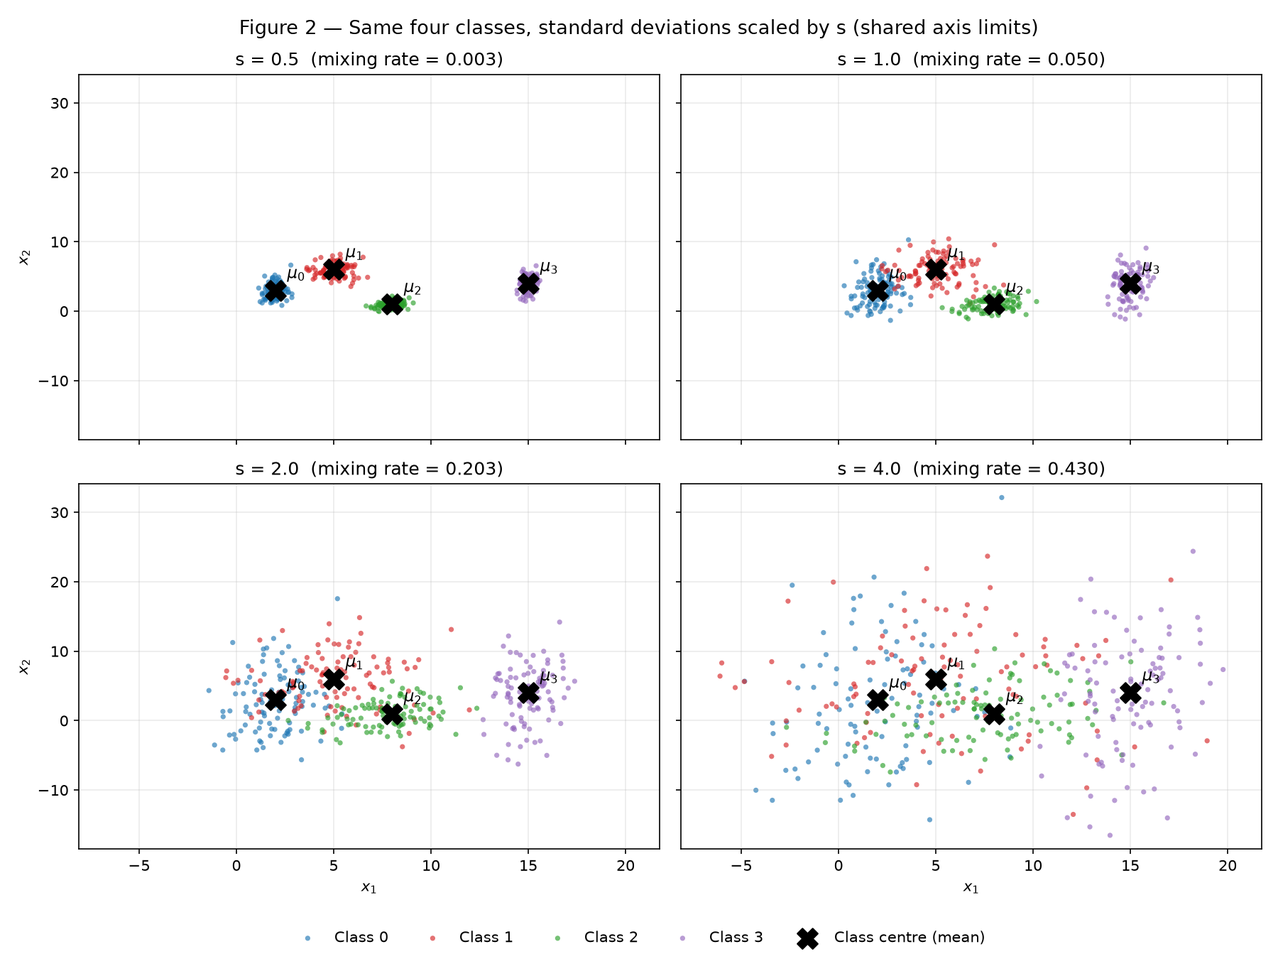
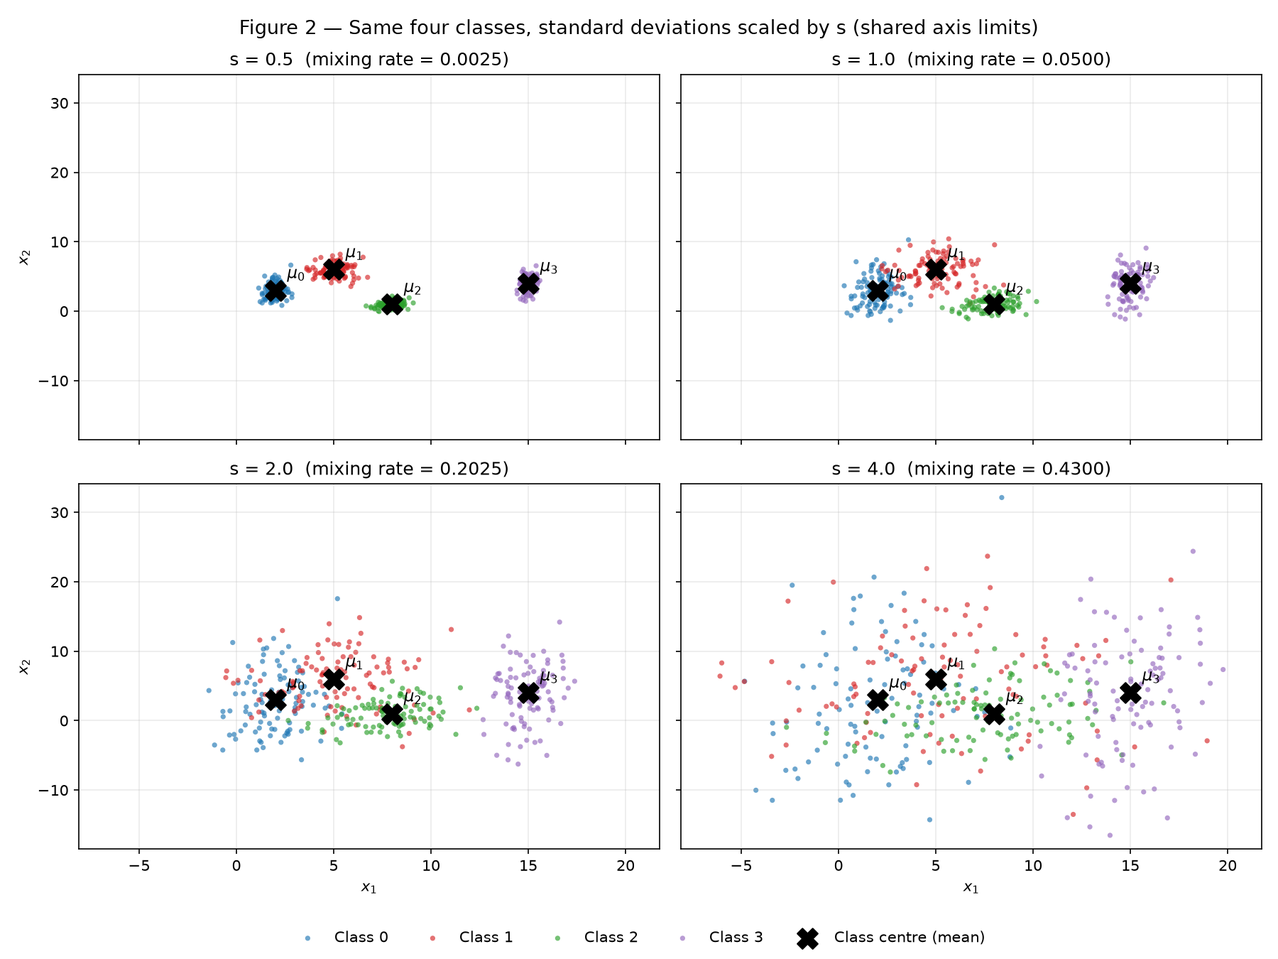
Data: corrige erro de Bayes, teto do hiperplano, leitura da Figura 4 e valores pre-imputacao

diff --git a/docs/exercises/data/code/exercise3_spaceship_titanic.py b/docs/exercises/data/code/exercise3_spaceship_titanic.py
@@ -124,6 +124,13 @@ def preprocess(X_train, X_test):
 
     train = X_train.copy()
     test = X_test.copy()
+
+    # Captured BEFORE imputation. The statement asks for FoodCourt "before transforming",
+    # and imputation is itself the first transformation -- filling 154 missing values with
+    # the median (0) drags the mean down from 452.61 to 442.59 and would quietly report a
+    # post-processing number as the raw one. Missing entries are dropped, not filled.
+    raw_foodcourt_train = X_train["FoodCourt"].dropna()
+
     train[numeric_cols] = numeric_imputer.fit_transform(train[numeric_cols])
     test[numeric_cols] = numeric_imputer.transform(test[numeric_cols])
     train[CATEGORICAL] = categorical_imputer.fit_transform(train[CATEGORICAL])
@@ -147,7 +154,6 @@ def preprocess(X_train, X_test):
     # log(1+x) keeps the zeros at zero and pulls a 20000-credit outlier to ~10, so the
     # spread of the column stops being dictated by a handful of passengers.
     spend_log = SPENDING + ["TotalSpend"]
-    raw_foodcourt_train = train["FoodCourt"].copy()
     train[spend_log] = np.log1p(train[spend_log])
     test[spend_log] = np.log1p(test[spend_log])
     print("\n3. log(1 + x) applied to the spending columns and to TotalSpend")
@@ -178,11 +184,14 @@ def preprocess(X_train, X_test):
     print("   any such category would become an all-zero row, never an error")
 
     # --- 5. Scaling -------------------------------------------------------------
-    # Normalisation to [-1, 1] rather than standardisation: tanh saturates outside
-    # roughly [-2, 2], and standardisation leaves the log-spending columns with values
-    # past |z| = 3, which land in the flat part of the curve where the gradient dies.
-    # Min-max to [-1, 1] puts every training value inside the responsive region by
-    # construction, and centres it on 0, which is where tanh has its steepest slope.
+    # Normalisation to [-1, 1] rather than standardisation. After the log the spending
+    # columns are already tame (max |z| between 2.86 and 3.06), so this is not about
+    # rescuing outliers: standardisation would leave the training matrix spanning
+    # [-2.00, +3.51], with Age reaching |z| = 3.51 and the upper bound depending on
+    # whatever the largest value happens to be. Min-max bounds every training value to
+    # exactly [-1, 1] by construction, which is the range tanh itself outputs -- keeping
+    # the pre-activation Wx+b at a predictable scale at initialisation, which is what
+    # actually decides whether the unit starts in the responsive part of the curve.
     numeric_final = ["Age"] + SPENDING + ["TotalSpend"]
     scaler = MinMaxScaler(feature_range=(-1, 1))
     train_numeric = scaler.fit_transform(train[numeric_final])

diff --git a/docs/exercises/data/code/exercise1_point_clouds.py b/docs/exercises/data/code/exercise1_point_clouds.py
@@ -154,7 +154,7 @@ def figure2(datasets):
     for ax, scale in zip(axes.ravel(), SCALES):
         X, y = datasets[scale]
         scatter_classes(ax, X, y, marker_size=12)
-        ax.set_title(f"s = {scale}  (mixing rate = {mixing_rate(X, y):.3f})")
+        ax.set_title(f"s = {scale}  (mixing rate = {mixing_rate(X, y):.4f})")
         ax.set_xlim(*xlim)
         ax.set_ylim(*ylim)
         ax.grid(alpha=0.25)

diff --git a/docs/exercises/data/index.md b/docs/exercises/data/index.md
@@ -121,9 +121,10 @@ treinar modelo nenhum. Equivale ao erro de um classificador de centroide mais pr
 
 ![Taxa de mistura em função do fator de escala s](figures/fig03-mixing-rate.png)
 /// caption
-**Figura 3** — Taxa de mistura $\times$ fator de escala $s$. A curva é praticamente linear
-entre $s = 0{,}5$ e $s = 4$, mas o dano por unidade de $s$ é maior no começo: dobrar de
-$0{,}5$ para $1$ multiplica o erro por 20.
+**Figura 3** — Taxa de mistura $\times$ fator de escala $s$. Em termos **absolutos** o trecho
+mais íngreme é o do meio (inclinação 0,153 por unidade de $s$ entre 1 e 2, contra 0,095 entre
+0,5 e 1). Em termos **relativos** o começo é que é brutal: dobrar de $0{,}5$ para $1$
+multiplica o erro por 20, enquanto dobrar de 2 para 4 apenas o dobra.
 ///
 
 **De qual fator de escala em diante as nuvens deixam de ser separáveis por retas?**
@@ -137,9 +138,15 @@ só a classe 3 ainda tem identidade espacial, e mesmo ela invade as demais.
 **O que acontece com o menor $r_{ij}$ nesse ponto?** Ele cruza 1: $r_{01}$ cai de $1{,}3258$
 para $\mathbf{0{,}6629}$. Esse limiar tem leitura direta — $r_{ij} < 1$ significa que a
 distância entre os centros ficou **menor** que a soma dos espalhamentos médios das duas
-classes, isto é, as nuvens se interpenetram em vez de apenas se tocarem. É exatamente onde a
-separabilidade linear se perde, e é por isso que $r_{ij} = 1$ funciona como critério e não só
-como número.
+classes, isto é, as nuvens se interpenetram em vez de apenas se tocarem.
+
+Sendo preciso: $r_{01}$ cruza 1 em $s = 1{,}3258$, e a separabilidade linear *estrita* — zero
+erros — já se perde bem antes, por volta de $s \approx 0{,}7$. A degradação é contínua, sem
+nenhum salto em $s = 2$ nem em $s = 1{,}33$. Não existe, portanto, um valor "empírico" a
+descobrir: entre os quatro valores testados, $s = 2$ é o primeiro em que $r_{\min} < 1$, e
+$r_{ij} = 1$ é o critério que o próprio enunciado sugere ao perguntar o que acontece com o
+menor $r_{ij}$ nesse ponto. É um critério com significado geométrico, e não uma inspeção
+visual — que é o que o torna defensável.
 
 ### C — Analysis
 
@@ -157,10 +164,16 @@ Com 4 classes, o melhor que uma reta faz é separar um grupo dos demais.
 
 **Um conjunto de fronteiras lineares?** Sim, quase perfeitamente em $s = 1$. Bastam três
 retas bem colocadas (uma isolando a classe 3 à direita, uma separando a 2 abaixo, e uma entre
-0 e 1) para acertar em torno de 95% dos pontos. É precisamente isso que uma rede rasa faz: a
-fronteira **linear por partes** que emerge da combinação de várias unidades. O resíduo de 5%
-está na zona 0–1, e nenhuma reta o elimina, porque as duas nuvens genuinamente se
-interpenetram ali.
+0 e 1). É precisamente isso que uma rede rasa faz: a fronteira **linear por partes** que
+emerge da combinação de várias unidades.
+
+Vale distinguir dois números que é fácil confundir. A taxa de mistura de 5% é o erro do
+**centroide mais próximo**, não o piso de um classificador linear — retas bem posicionadas
+fazem melhor que a partição de Voronoi, porque podem se deslocar na direção da classe mais
+concentrada. Medido no meu próprio conjunto em $s = 1$, o melhor modelo linear multiclasse
+erra **11 de 400 (2,75%)**, contra os 20 de 400 do centroide. As retas cortam o resíduo
+praticamente pela metade — o que elas não fazem é zerá-lo, porque as nuvens 0 e 1 genuinamente
+se interpenetram ali.
 
 ![Figura 1 com as fronteiras de decisão esboçadas por cima](figures/fig01b-decision-boundaries.png)
 /// caption
@@ -179,10 +192,25 @@ quadrática, e não uma reta — o que a rede aproxima por vários segmentos.
 
 **Relação com o item B.** À medida que $s$ cresce, a região onde a rede **necessariamente**
 erra cresce junto, e essa é a parte que nenhum ajuste de arquitetura resolve. Onde as
-densidades das duas classes se sobrepõem, existe um erro de Bayes irredutível: para um ponto
-naquela região, a classe mais provável simplesmente não é certa. Os números medem isso — o
-piso de erro sai de 0,25% ($s = 0{,}5$) para 43% ($s = 4$) sem que nada além do espalhamento
-tenha mudado. Duas consequências práticas:
+densidades das duas classes se sobrepõem existe um **erro de Bayes** irredutível: para um
+ponto naquela região, a classe mais provável simplesmente não é certa.
+
+Aqui é preciso cuidado com o que a taxa de mistura mede. Ela é o erro de um classificador
+específico — o centroide mais próximo — e portanto um **limite superior** do erro de Bayes,
+nunca o piso. Calculando o erro de Bayes de verdade para estas gaussianas diagonais
+(densidades conhecidas, prioris iguais):
+
+| $s$ | Taxa de mistura (centroide) | Erro de Bayes real |
+|-----|------------------------------|--------------------|
+| 0,5 | 0,0025 | ≈ 0,0003 |
+| 1,0 | 0,0500 | ≈ 0,0301 |
+| 2,0 | 0,2025 | ≈ 0,1581 |
+| 4,0 | 0,4300 | ≈ 0,3331 |
+
+O piso real vai de ~0,03% a ~33% — a mesma história de crescimento, mas a taxa de mistura
+superestima o inevitável, e em $s = 4$ superestima em cerca de 10 pontos percentuais. O que é
+irredutível é a coluna da direita; a diferença entre as duas colunas é exatamente o que uma
+fronteira melhor que Voronoi consegue recuperar. Duas consequências práticas:
 
 1. **Mais capacidade não ajuda.** Em $s = 4$ os centros estão nos mesmos lugares de $s = 0{,}5$;
    o que mudou foi a densidade. Uma rede maior só conseguiria decorar o ruído do conjunto de
@@ -302,9 +330,17 @@ $w^\top \mu_C$ e $w^\top \mu_D$; como $\mu_C \approx \mu_D \approx 0$, as duas p
 **a mesma média**, qualquer que seja $w$. Pior: como as duas classes são esfericamente
 simétricas em torno da origem, a projeção de cada uma sobre qualquer direção é simétrica em
 torno de zero. As duas distribuições projetadas ficam centradas no mesmo ponto, e a casca
-— que é mais larga — cobre o núcleo dos dois lados. Um corte nessa reta sempre deixa metade
-da casca do lado errado; a acurácia de qualquer hiperplano fica em torno de 50%, o mesmo que
-chutar.
+— que é mais larga — cobre o núcleo dos dois lados. Qualquer corte nessa reta erra pelo menos
+metade de uma das duas classes: cortando à direita, perde-se metade da casca; cortando à
+esquerda, perde-se boa parte do núcleo.
+
+Convém dar o número certo aqui, porque o argumento é qualitativo e é tentador exagerá-lo. Os
+estimadores lineares usuais de fato ficam perto do acaso — regressão logística e LDA marcam
+0,551 neste conjunto. Mas o **melhor hiperplano possível** não fica em 50%: varrendo 20 000
+direções e todos os limiares, o teto é **0,653** (e ~0,62 fora da amostra). A razão é que a
+projeção da casca tem desvio $5/\sqrt{5} = 2{,}24$ contra $2/\sqrt{5} = 0{,}89$ do núcleo, e
+um corte lá na cauda captura massa da casca que o núcleo não alcança. Continua sendo um
+fracasso — 0,65 contra **1,00** da regra radial — mas "em torno de 50%" seria falso.
 
 A informação, portanto, existe e é forte (Figura 5 mostra classes quase disjuntas em raio),
 mas está guardada em uma estatística que a projeção linear destrói.
@@ -315,18 +351,26 @@ a fronteira que um separador linear produz é um **hiperplano**, e a região que
 um semiespaço. Nenhum semiespaço é igual a uma bola: o semiespaço é ilimitado em uma direção,
 a bola é limitada em todas. Mais dados estimam melhor os parâmetros de um modelo, mas não
 mudam o conjunto de fronteiras que aquele modelo consegue expressar. Um perceptron com um
-milhão de amostras deste conjunto continua com ~50% de acurácia. É preciso mudar a **família
-de funções** — uma camada oculta, ou uma feature construída à mão.
+milhão de amostras deste conjunto continua preso ao teto de ~0,65 — e, como o conjunto não é
+linearmente separável, o algoritmo do perceptron sequer converge: ele oscila indefinidamente.
+É preciso mudar a **família de funções** — uma camada oculta, ou uma feature construída à mão.
 
 **PCA é linear: uma projeção 2D embaralhada prova que as classes são inseparáveis?** Não, e
-este conjunto é o contraexemplo. A Figura 4 (direita) mostra as duas classes ocupando a mesma
-região do plano PC1–PC2, e a projeção retém apenas 43,16% da variância. Se a conclusão fosse
-"as classes se misturam, logo são inseparáveis", ela estaria **errada** — as classes são
-separáveis com acurácia perfeita. Uma projeção linear ruim é evidência sobre a *projeção*, não
-sobre os dados: PCA maximiza variância retida, que não é a mesma coisa que separabilidade
-entre classes (PCA sequer olha para os rótulos). O que a Figura 4 realmente demonstra é que
-**nenhuma direção linear** separa — que é justamente a hipótese a testar, não a conclusão a
-tirar.
+este conjunto é o contraexemplo — mas é preciso ler a Figura 4 com atenção, porque ela diz
+algo mais interessante do que "embaralhado".
+
+As classes **não** estão misturadas na Figura 4 (direita): o que se vê é um alvo, um núcleo
+azul denso dentro de um anel vermelho. A projeção retém só 43,16% da variância e ainda assim
+preserva estrutura visível. Quantificando no próprio plano PC1–PC2: a melhor **reta** acerta
+apenas **0,651**, enquanto o melhor **círculo** centrado na origem acerta **0,882**. Ou seja,
+a projeção não destruiu a informação — ela destruiu a possibilidade de usá-la *linearmente*.
+
+Se alguém olhasse esse painel e concluísse "as classes se sobrepõem, logo são inseparáveis",
+estaria **errado** por duas razões independentes: a projeção nem sequer as sobrepõe, e mesmo
+que sobrepusesse isso seria evidência sobre a *projeção*, não sobre os dados. PCA maximiza
+variância retida, que não é a mesma coisa que separabilidade entre classes — ele sequer olha
+para os rótulos. O que a Figura 4 demonstra é que **nenhuma direção linear** separa, que é a
+hipótese a testar, não a conclusão a tirar.
 
 **Uma função simples das entradas que separa o Dataset II.** O raio ao quadrado, que é uma
 soma de quadrados das coordenadas e dispensa raiz:
@@ -450,9 +494,16 @@ aqui é *ajustada* a partir de estatísticas do dado — a mediana que preenche 
 categorias que definem as colunas do one-hot, o mínimo e o máximo que definem a escala. Se
 essas estatísticas forem calculadas sobre a tabela inteira, elas carregam informação das
 linhas de teste para dentro do modelo, e o teste deixa de ser uma simulação de dado novo:
-é **vazamento de dados**, e a performance reportada passa a ser otimista de forma não
-verificável. Ajustando só no treino, o conjunto de teste ocupa o papel que deve ocupar — dado
-que o modelo nunca viu, nem diretamente nem através dos parâmetros de uma transformação.
+é **vazamento de dados** — mais precisamente **contaminação treino-teste**, na taxonomia vista
+em aula (alvo / contaminação treino-teste / temporal / engenharia de features) — e a
+performance reportada passa a ser otimista de forma não verificável. Ajustando só no treino, o
+conjunto de teste ocupa o papel que deve ocupar: dado que o modelo nunca viu, nem diretamente
+nem através dos parâmetros de uma transformação.
+
+Uma ressalva de escopo: o enunciado pede 80/20, então o que chamo de "teste" aqui é o único
+conjunto retido. Não há conjunto de validação, e portanto nenhuma decisão de hiperparâmetro
+poderia ser tomada sem gastar o teste — o que, num projeto real com este tamanho de amostra,
+pediria 60/20/20 ou validação cruzada.
 
 ``` mermaid
 flowchart LR
@@ -477,6 +528,14 @@ A ordem importa, e cada passo é ajustado no treino e apenas aplicado no teste.
 Valores aprendidos **no treino**: `Age` → 27,0; os cinco gastos → 0,0; `HomePlanet` → `Earth`;
 `CryoSleep` → `False`; `Destination` → `TRAPPIST-1e`; `VIP` → `False`.
 
+**Sobre o mecanismo de ausência.** A estratégia deveria seguir o mecanismo, e não apenas a
+porcentagem. Tratei os ausentes como **MCAR** (completamente aleatórios), o que a uniformidade
+das taxas — todas entre 2,06% e 2,50%, sem coluna destoante — torna plausível. Mas os gastos
+provavelmente são **MAR**: dado `CryoSleep = True`, o gasto é zero por construção, então a
+ausência é explicável por outra variável observada. É esse o argumento que transforma a
+imputação condicional a `CryoSleep`, que menciono na Discussão, de palpite em escolha
+principiada — e é a melhoria mais óbvia que deixei de fora.
+
 #### 2. Feature engineering
 
 `TotalSpend` = soma das cinco colunas de gasto, calculada **sobre os valores brutos** (antes
@@ -495,8 +554,19 @@ mesma justificativa). A escolha de $\log(1+x)$ em vez de $\log(x)$ é o que perm
 zeros: $\log(1+0) = 0$, então os mais de 60% de não-gastadores permanecem em zero em vez de
 virar $-\infty$.
 
-O efeito medido em `FoodCourt` (treino): a assimetria cai de **7,38 para 1,16** e o máximo de
+O efeito medido em `FoodCourt` (treino): a assimetria cai de **7,30 para 1,16** e o máximo de
 **29 813 para 10,30**.
+
+!!! note "O que conta como \"antes de transformar\""
+
+    Os valores "antes" nesta página — média **452,61**, mediana **0,00**, assimetria **7,30**,
+    e o painel esquerdo da Figura 6 — são medidos no `FoodCourt` **bruto do treino, com os 154
+    ausentes descartados**, não preenchidos. A imputação já é uma transformação: preencher
+    aqueles 154 com a mediana (0) puxa a média de 452,61 para 442,59 e a assimetria de 7,30
+    para 7,38. Reportar o número pós-imputação como "antes de transformar" seria descrever o
+    resultado de um passo do pré-processamento como se fosse o dado cru — é uma diferença
+    pequena em magnitude, mas de significado, e por isso o script captura a série antes do
+    imputador (`raw_foodcourt_train = X_train["FoodCourt"].dropna()`).
 
 **Por que isso ajuda uma rede com `tanh`?** Porque `tanh` **satura**. Fora de aproximadamente
 $[-2, 2]$ a curva fica plana e sua derivada tende a zero; um neurônio que recebe entradas
@@ -537,14 +607,30 @@ e regularização.
 
 **Normalização para $[-1, 1]$** com `MinMaxScaler(feature_range=(-1, 1))`, ajustada no treino.
 
-**Por que essa e não a padronização?** Pelo mesmo motivo de saturação do item 3. A
-padronização (média 0, desvio 1) não impõe limite superior: as colunas de gasto, mesmo depois
-do log, mantêm assimetria residual, e vários valores cairiam além de $|z| = 3$ — dentro da
-região plana da `tanh`, onde o gradiente morre. O min-max para $[-1, 1]$ garante por
-construção que **todo valor de treino** caia no intervalo em que a `tanh` é responsiva, e
-centra os dados em zero, que é onde a curva tem inclinação máxima. Como o alvo é
-explicitamente uma rede com `tanh`, casar o intervalo de entrada com o de saída da ativação é
-a escolha mais direta.
+**Por que essa e não a padronização?** Convém primeiro descartar um argumento que *não* se
+sustenta nestes dados. Depois do $\log(1+x)$ as colunas de gasto ficam bem comportadas — o
+maior $|z|$ entre elas vai de 2,86 (`RoomService`) a 3,06 (`ShoppingMall`), e apenas **2 de
+48 678** valores da matriz padronizada passariam de $|z| = 3$. Ou seja: aqui a padronização
+**não** jogaria as colunas de gasto na região plana da `tanh`, e justificar o min-max por
+"salvar outliers" seria justificar com um número que os dados contradizem.
+
+O motivo real é outro, e é de garantia, não de magnitude. A padronização não impõe limite
+algum: o teto da matriz passa a depender de qual for o maior valor observado — aqui o treino
+padronizado ocuparia $[-2{,}00;\ +3{,}51]$, com a `Age` chegando a $|z| = 3{,}51$. O min-max
+para $[-1, 1]$ prende **todo valor de treino** ao intervalo por construção, que é exatamente
+o intervalo que a própria `tanh` devolve. Isso mantém a escala da pré-ativação $Wx + b$
+previsível na inicialização — e é a pré-ativação, não a feature isolada, que decide se o
+neurônio começa na parte responsiva da curva.
+
+!!! warning "Uma ressalva honesta sobre o min-max"
+
+    O min-max centra o **intervalo**, não os **dados**. Depois de escalonadas, as cinco
+    colunas de gasto têm mediana exatamente $-1$ e média em torno de $-0{,}64$, porque 63% dos
+    passageiros não gastaram nada e todos eles caem no piso. Quem de fato centraria os dados
+    em zero — onde a `tanh` tem inclinação máxima — é a padronização. Então a escolha é um
+    troco: ganho o intervalo garantido e perco a centralização. Para uma rede com `tanh` e
+    termo de viés, o viés aprende a compensar o deslocamento, e é por isso que continuo
+    preferindo o intervalo garantido.
 
 | Conjunto | Mínimo | Máximo |
 |----------|--------|--------|
@@ -555,8 +641,12 @@ O treino fica exatamente em $[-1, 1]$ — é a definição do min-max. O teste *
 ligeiramente**, chegando a 1,1383, e isso não é um defeito: significa que alguma linha de
 teste tem um gasto maior que o maior gasto visto no treino. O scaler nunca viu esse valor, e
 esse é justamente o comportamento correto — é assim que o modelo se comportaria em produção,
-diante de um dado novo. Recortar para $[-1, 1]$ ou reajustar o scaler no teste seria vazamento.
-Um excesso de 14% está bem dentro da região útil da `tanh`, então não há prejuízo prático.
+diante de um dado novo. **Reajustar** o scaler no teste seria vazamento, e por isso não faço.
+Já *recortar* em $[-1, 1]$ usando os limites aprendidos no treino **não** seria vazamento —
+usa só parâmetros do treino, e é prática comum em produção; é uma opção legítima que eu
+apenas não escolhi, porque descartar a informação de que aquele passageiro gastou mais que
+qualquer um do treino não me parece ganho. Um excesso de 13,8% está bem dentro da região útil
+da `tanh`, então não há prejuízo prático.
 
 As colunas one-hot ficam em $\{0, 1\}$ e não são escalonadas: já estão dentro de $[-1, 1]$ e
 reescaloná-las destruiria a interpretação binária.
@@ -567,13 +657,14 @@ reescaloná-las destruiria a interpretação binária.
 /// caption
 **Figura 6** — `FoodCourt` no conjunto de treino, antes (bruto, eixo $y$ logarítmico para que
 a cauda seja visível) e depois de $\log(1+x)$ seguido de escalonamento para $[-1, 1]$. A
-assimetria cai de 7,38 para 1,16.
+assimetria cai de 7,30 para 1,16.
 ///
 
 A figura mostra o que os números do item C descrevem. À esquerda, praticamente toda a massa
 está encostada no zero e a cauda se arrasta até 29 813 — precisei de escala logarítmica no
-eixo $y$ para que as barras da cauda sequer aparecessem. À direita, o pico em $-1$ são os
-~63% de passageiros que não gastaram nada (preservados exatamente em zero pelo $\log(1+x)$), e
+eixo $y$ para que as barras da cauda sequer aparecessem. À direita, o pico em $-1$ concentra
+**65,3%** do treino — os passageiros que não gastaram nada, preservados exatamente em zero
+pelo $\log(1+x)$, mais os 2,2 pontos percentuais de ausentes que a mediana preencheu com 0 — e
 o restante se espalha por uma faixa contínua até cerca de $0{,}8$, em vez de se amontoar em um
 único bin.
 
@@ -641,7 +732,7 @@ informativa — o tipo de erro que não aparece em nenhuma verificação de NaN 
 | 8 | Explained variance PC1 + PC2 — Dataset I | **0,6597** (65,97%) |
 | 9 | Explained variance PC1 + PC2 — Dataset II | **0,4316** (43,16%) |
 | 10 | Share of the positive class in `Transported` | **50,36%** (4 378 de 8 693) |
-| 11 | Mean and median of `FoodCourt` on the training set, before transforming | média **442,59** · mediana **0,00** |
+| 11 | Mean and median of `FoodCourt` on the training set, before transforming | média **452,61** · mediana **0,00** |
 | 12 | Final shape of the training feature matrix | **(6 954, 17)** |
 | 13 | Minimum and maximum of the training and test sets after scaling | treino $[-1{,}0000;\ 1{,}0000]$ · teste $[-1{,}0000;\ 1{,}1383]$ |
 
@@ -654,9 +745,14 @@ espalhamentos — e que $r_{01}$ cruza esse limiar exatamente entre $s = 1$ e $s
 intervalo em que a taxa de mistura quadruplica. Duas medidas independentes apontando para o
 mesmo lugar é um argumento; uma inspeção visual não é.
 
-**Onde a intuição falhou.** No Dataset II. Meu reflexo ao ver a projeção PCA embaralhada foi
-"esse conjunto é difícil", quando na verdade ele é *trivial* — 100% de acurácia com uma soma
-de quadrados. O erro foi tratar uma projeção linear como se fosse uma visão neutra dos dados.
+**Onde a intuição falhou.** No Dataset II, duas vezes. Primeiro, meu reflexo ao ver a projeção
+PCA foi "esse conjunto é difícil", quando na verdade ele é *trivial* — 100% de acurácia com
+uma soma de quadrados. O erro foi tratar uma projeção linear como se fosse uma visão neutra
+dos dados. Segundo, e mais sutil: eu tinha escrito que a Figura 4 mostrava as classes
+"misturadas", e ao conferir percebi que ela não mostra nada disso — mostra um alvo, e um
+círculo nesse plano já acerta 88,2%. O que a projeção destrói não é a informação, é a
+possibilidade de usá-la com uma reta. Confundir "não separável linearmente" com "embaralhado"
+é exatamente o erro que o item D pede para não cometer, e eu o cometi na primeira redação.
 Também me surpreendeu que os centros ficassem a 0,2666 em vez de 0: bastou lembrar que 500
 direções aleatórias não se cancelam perfeitamente.
 
@@ -673,7 +769,8 @@ problema de classificação não está no número de features nem no volume de d
 geometria das distribuições**.
 
 O Exercício 1 mostra que a dificuldade é contínua e mensurável antes de qualquer treino — as
-médias nunca mudaram, só o espalhamento, e a taxa de erro irredutível foi de 0,25% a 43%. O
+médias nunca mudaram, só o espalhamento, e o erro de Bayes irredutível foi de ~0,03% a ~33%
+(com a taxa de mistura subindo de 0,25% a 43% junto). O
 Exercício 2 mostra que ela também é **qualitativa**: dois conjuntos com a mesma dimensão e o
 mesmo tamanho exigem famílias de fronteiras diferentes, e nenhum volume de dados converte um
 hiperplano em uma hiperesfera. O Exercício 3 mostra que, em dados reais, o espalhamento chega
